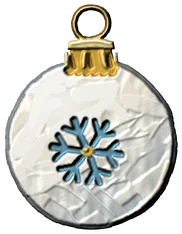
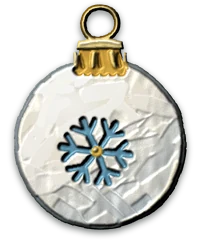
Dark green edition (WIP, local): baubles with baked shadow, Safari-safe CSS (no overflow clip, no filter, animation fill backwards)

diff --git a/css/winter.css b/css/winter.css
@@ -11,11 +11,11 @@ html.seq:not(.frei):not(.w-bier-weg) .w-deko * { animation-play-state: paused !i
 .w-schnee { position: absolute; top: 0; left: 0; width: 100%; z-index: 40; pointer-events: none; }
 
 /* ── Kugeln in den Ecken (ohne Äste) ── */
-.w-deko { position: absolute; top: 0; left: 0; right: 0; height: 0; z-index: 5; pointer-events: none; overflow-x: clip; }   /* waagerecht abschneiden: eine Kugel nahe am Rand darf die Seite am Handy nicht breiter als den Bildschirm machen */
+.w-deko { position: absolute; top: 0; left: 0; right: 0; height: 0; z-index: 5; pointer-events: none; }   /* kein overflow-x: clip und keine Filter an den Kugeln: beides ließ sie in Safari nach dem Anstoßen verschwinden; die Kugeln hängen ohnehin ganz im Bild (x >= halbe Breite + 8 px) */
 .w-licht { animation: funkeln 3.2s ease-in-out infinite; animation-delay: var(--d, 0s); }
 @keyframes funkeln { 0%, 100% { opacity: .55; } 50% { opacity: 1; } }
 
-.w-kugel__in { animation: kugel-ein .85s cubic-bezier(.22, .9, .3, 1) both; animation-delay: calc(.3s + var(--i) * .1s); }
+.w-kugel__in { animation: kugel-ein .85s cubic-bezier(.22, .9, .3, 1) backwards; animation-delay: calc(.3s + var(--i) * .1s); }
 @keyframes kugel-ein { from { opacity: 0; transform: translateY(-70px); } }
 .w-kugel--r { margin-left: 0 !important; margin-right: calc(var(--s) / -2); }
 .w-kugel { position: absolute; width: var(--s); margin-left: calc(var(--s) / -2); transform-origin: 50% 0; pointer-events: auto; cursor: grab; touch-action: manipulation; -webkit-tap-highlight-color: transparent; }
@@ -23,7 +23,7 @@ html.seq:not(.frei):not(.w-bier-weg) .w-deko * { animation-play-state: paused !i
 /* Osterei: zweimal ganz um den Faden gedreht (Faden und Aufhänger liegen auf der Drehachse, die Kugel bleibt also angehängt), dabei hüpft sie ein Stück hoch */
 @keyframes kugel-flip { 0% { transform: perspective(520px) translateY(0) rotateY(0); } 45% { transform: perspective(520px) translateY(-14px) rotateY(400deg); } 100% { transform: perspective(520px) translateY(0) rotateY(720deg); } }
 .w-faden { display: block; width: 1px; margin: 0 auto; background: linear-gradient(#B8913A, #7A5C1C); opacity: .9; }
-.w-kugel__svg { display: block; width: var(--s); height: auto; margin: -1px auto 0; max-width: none; filter: drop-shadow(0 5px 5px rgba(0, 10, 4, .5)); }
+.w-kugel__svg { display: block; width: var(--s); height: auto; margin: -1px auto 0; max-width: none; }
 
 /* ── Schluss-Szene: Spachtel-Gemälde mit Schafen am Lagerfeuer (js/winter-gipfel.js) ── */
 .w-gipfel { margin: clamp(56px, 9vh, 96px) auto 0; }

diff --git a/js/winter.js b/js/winter.js
@@ -5,16 +5,16 @@
 // dann senken sich die Kugeln und der Schnee beginnt zu fallen, während Titel und Gemälde noch einfliegen. Die Sequenz (js/sequenz.js) bleibt unangetastet (nur lesend).
 // Im Fuß gibt es einen Schalter „Winterschmuck ausblenden“. Die Kugeln hängen still und schwingen nur, wenn Zeiger oder Finger sie berühren.
 // Bei „Bewegung reduzieren“ steht alles still (kein Schnee, kein Schwingen, kein Funkeln).
-import { schneeStart } from './winter-schnee.js?v=5ec8b712';
-import { gipfel } from './winter-gipfel.js?v=5ec8b712';
+import { schneeStart } from './winter-schnee.js?v=602a8b7b';
+import { gipfel } from './winter-gipfel.js?v=602a8b7b';
 
 const root = document.documentElement;
 const stillstand = matchMedia('(prefers-reduced-motion: reduce)').matches;
 const el = (tag, klasse, html) => { const e = document.createElement(tag); if (klasse) e.className = klasse; if (html) e.innerHTML = html; return e; };
 
 // ── Christbaumkugel: von Hand im Spachtelstil gemalt wie das Gemälde (dicke Farbstriche mit Lichtkante, Perlen, Flocke, Berge). Kleine WebP-Bilder in assets/img/kugel-*.webp,
-//    erzeugt von tools/kugeln/ (node tools/kugeln/bauen.mjs); KUGEL_MASS = Bildgröße in Pixeln, die Kugel ist 168 von 182 Pixeln breit ──
-const KUGEL_MASS = {'creme-flocke': [182, 234], 'eis-berge': [182, 236], 'eis-stern': [182, 233], 'gold-punkte': [180, 233], 'gold-wirbel': [182, 234], 'rot-streifen': [182, 234], 'tropfen-creme': [151, 276], 'tropfen-rot': [151, 275]};
+//    erzeugt von tools/kugeln/ (node tools/kugeln/bauen.mjs); KUGEL_MASS = Bildgröße in Pixeln (mit gebackenem Schatten); Bezugsbreite 182 = Kugel samt Rand, daher Breite = s * w / 182 ──
+const KUGEL_MASS = {'creme-flocke': [200, 243], 'eis-berge': [200, 245], 'eis-stern': [200, 242], 'gold-punkte': [198, 242], 'gold-wirbel': [200, 243], 'rot-streifen': [200, 243], 'tropfen-creme': [169, 285], 'tropfen-rot': [169, 284]};
 function kugelSvg(name) {
   const [w, h] = KUGEL_MASS[name];
   const url = new URL(`../assets/img/kugel-${name}.webp`, import.meta.url).href;
@@ -191,7 +191,7 @@ function schalter() {
 }
 
 export function start({ an }) {
-  const css = el('link'); css.rel = 'stylesheet'; css.href = new URL('../css/winter.css?v=5ec8b712', import.meta.url).href;
+  const css = el('link'); css.rel = 'stylesheet'; css.href = new URL('../css/winter.css?v=602a8b7b', import.meta.url).href;
   const fertig = new Promise((res) => { css.onload = css.onerror = res; setTimeout(res, 3000); });
   document.head.appendChild(css);
   fertig.then(() => {

diff --git a/js/main.js b/js/main.js
@@ -3,11 +3,11 @@
 // Bei „Bewegung reduzieren“ (und ohne JavaScript) gibt es weder Sperre noch Animation: die normale Seite.
 // Notausgang: kommt die Steuerung nicht in Gang, wird die Sperre aufgehoben, damit die Seite nie blockiert bleibt.
 
-import './altersabfrage.js?v=5ec8b712';                         // Altersabfrage 16+ (richtet sich selbst ein)
-import './etikett.js?v=5ec8b712';                              // Goldene Linien der Zutaten: zeichnen sich beim ersten Erscheinen
-import './timeline.js?v=5ec8b712';                              // Geschichte am Handy: aktive Station hervorheben
-import { ladeHerde } from './herde.js?v=5ec8b712';             // Schafe der Herde laden (ohne Sequenz nach dem Laden der Seite)
-import { winterZeit } from './winter-zeit.js?v=5ec8b712';     // Wintersaison (1. November bis 6. Januar) oder ?winter=1
+import './altersabfrage.js?v=602a8b7b';                         // Altersabfrage 16+ (richtet sich selbst ein)
+import './etikett.js?v=602a8b7b';                              // Goldene Linien der Zutaten: zeichnen sich beim ersten Erscheinen
+import './timeline.js?v=602a8b7b';                              // Geschichte am Handy: aktive Station hervorheben
+import { ladeHerde } from './herde.js?v=602a8b7b';             // Schafe der Herde laden (ohne Sequenz nach dem Laden der Seite)
+import { winterZeit } from './winter-zeit.js?v=602a8b7b';     // Wintersaison (1. November bis 6. Januar) oder ?winter=1
 
 // Restliches CSS: index.html bindet css/style.css als print-Stylesheet ein (blockiert den ersten Bildaufbau nicht),
 // hier wird es für alle Medien aktiviert. So braucht die Seite keinen Inline-Handler (strenge Content-Security-Policy).
@@ -36,5 +36,5 @@ if (document.readyState === 'complete') ladeHerde(); else window.addEventListene
 // Winterausgabe: nur in der Saison (oder mit ?winter=1) nachladen, sonst kostet sie nichts.
 const winter = winterZeit();
 if (winter.saison) {
-  import('./winter.js?v=5ec8b712').then((m) => m.start(winter)).catch((e) => console.warn('Winterausgabe konnte nicht geladen werden', e));
+  import('./winter.js?v=602a8b7b').then((m) => m.start(winter)).catch((e) => console.warn('Winterausgabe konnte nicht geladen werden', e));
 }

diff --git a/index.html b/index.html
@@ -304,12 +304,12 @@
   </style>
   <!-- restliches CSS lädt, ohne den ersten Bildaufbau zu blockieren: früh holen (preload), als print-Stylesheet
        einbinden, js/main.js schaltet es auf alle Medien um (kein Inline-Handler → strenge Content-Security-Policy) -->
-  <link rel="preload" href="css/style.css?v=5ec8b712" as="style" />
-  <link rel="stylesheet" href="css/style.css?v=5ec8b712" media="print" id="css-main" />
-  <noscript><link rel="stylesheet" href="css/style.css?v=5ec8b712" /></noscript>
+  <link rel="preload" href="css/style.css?v=602a8b7b" as="style" />
+  <link rel="stylesheet" href="css/style.css?v=602a8b7b" media="print" id="css-main" />
+  <noscript><link rel="stylesheet" href="css/style.css?v=602a8b7b" /></noscript>
 
   <!-- Start mit dem auslaufenden Bier (js/sequenz.js) wird erst nach dem ersten Rendern geladen (js/main.js) -->
-  <script type="module" src="js/main.js?v=5ec8b712"></script>
+  <script type="module" src="js/main.js?v=602a8b7b"></script>
 </head>
 <body>
 

diff --git a/js/sequenz.js b/js/sequenz.js
@@ -20,8 +20,8 @@
 //   · Eingabesperre: während der Animation und danach 400 ms werden Gesten ignoriert.
 //   · Neu laden mit Position über 0 und Direktlinks (#…) landen ohne Animation direkt in C.
 
-import { createBeer } from './bier-leeren.js?v=5ec8b712';
-import { ladeHerde } from './herde.js?v=5ec8b712';
+import { createBeer } from './bier-leeren.js?v=602a8b7b';
+import { ladeHerde } from './herde.js?v=602a8b7b';
 
 const root = document.documentElement;
 const hero = document.getElementById('start');

diff --git a/tools/kugeln/zu_webp.py b/tools/kugeln/zu_webp.py
@@ -3,7 +3,7 @@
 Aufruf (von bauen.mjs): python3 tools/kugeln/zu_webp.py <Ordner mit PNGs> <Z>. Gibt die Größen als fertigen JavaScript-Eintrag für js/winter.js aus (KUGEL_MASS)."""
 import sys, json
 from pathlib import Path
-from PIL import Image
+from PIL import Image, ImageFilter
 quelle, Z = Path(sys.argv[1]), int(sys.argv[2])
 ziel = Path(__file__).resolve().parent.parent.parent / 'assets/img'
 mass = {}
@@ -16,6 +16,16 @@ for png in sorted(quelle.glob('*.png')):
     im = im.crop(box)
     f = 2 / Z
     im = im.resize((round(im.width * f), round(im.height * f)), Image.LANCZOS)
+    # Schatten ins Bild gebacken (ein CSS-Filter auf der schwingenden Kugel ließ sie in Safari verschwinden): weich, dunkelgrün, leicht nach unten; Rand nur seitlich und unten
+    pad = 9
+    gross = Image.new('RGBA', (im.width + 2 * pad, im.height + pad), (0, 0, 0, 0))
+    sch = Image.new('RGBA', gross.size, (0, 10, 4, 0))
+    sch.putalpha(Image.new('L', gross.size, 0))
+    a = Image.new('L', gross.size, 0); a.paste(im.getchannel('A'), (pad, 3))
+    a = a.filter(ImageFilter.GaussianBlur(3.2)).point(lambda v: int(v * .5))
+    sch.putalpha(a)
+    gross.alpha_composite(sch); gross.alpha_composite(im, (pad, 0))
+    im = gross
     pfad = ziel / f'kugel-{png.stem}.webp'
     im.save(pfad, 'WEBP', quality=88, method=6)
     mass[png.stem] = [im.width, im.height]
